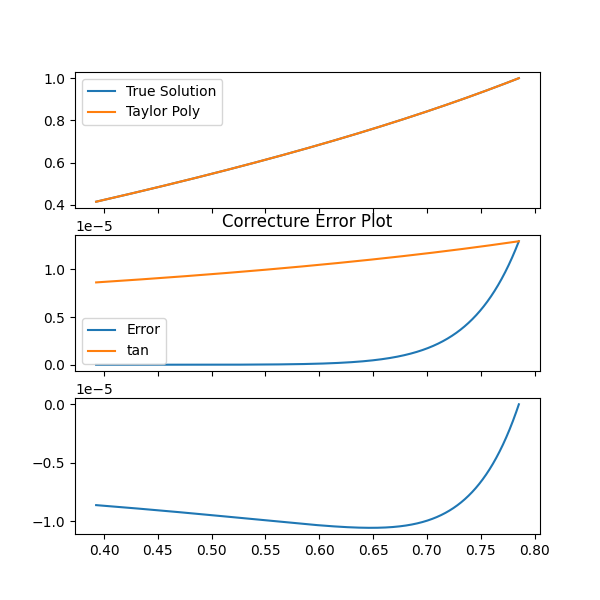
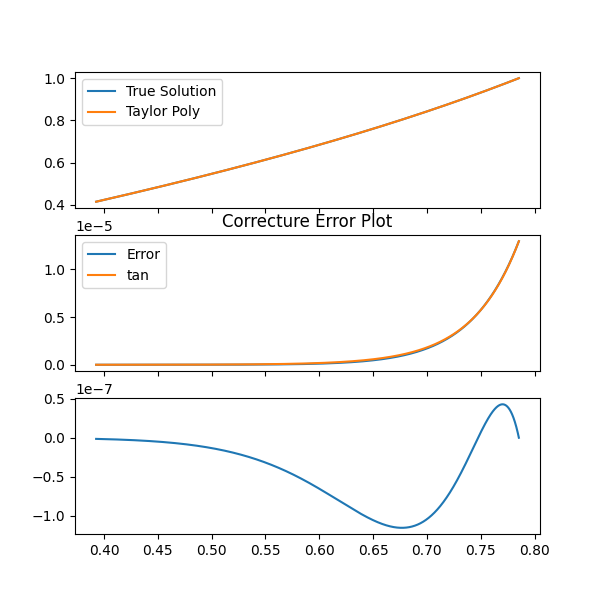
other error plots

diff --git a/plot_scripts/simple_tan_ranges/cubic_bezier_stuff.py b/plot_scripts/simple_tan_ranges/cubic_bezier_stuff.py
@@ -1,0 +1,206 @@
+import numpy as np
+import sympy as sp
+import matplotlib.pyplot as plt
+from scipy.optimize import brentq
+
+
+
+def taylor(degree):
+    """
+    Returns a function that computes the Taylor polynomial of tan(x)
+    of the given degree around point a (default 0).
+    """
+
+    x = sp.symbols('x')
+    f = sp.tan(x)
+    
+    # Taylor expansion around a
+    taylor_series = sp.series(f, x, 0, degree + 1)
+    taylor_poly = taylor_series.removeO()
+    
+    # Convert to a numerical function
+    f_taylor = sp.lambdify(x, taylor_poly, 'numpy')
+    
+    return f_taylor
+
+
+comparison_function = "tan"
+
+lower = np.pi/8
+upper = np.pi/4
+# upper = 1.5
+
+x_vals = np.linspace(lower, upper, 1000000)
+y_true = np.tan(x_vals)
+
+func = taylor(15)
+y_own = func(x_vals)
+
+y = np.linspace(lower, upper, 100000)
+dx = []
+for y0 in y:
+    # Solve true(x) = y0
+    f1 = lambda x: func(x) - y0
+    x_true = brentq(f1, 0, 10000)
+
+    # Solve approx(x) = y0
+    f2 = lambda x: np.tan(x) - y0
+    x_approx = brentq(f2, 0, upper)
+
+    dx.append(x_true - x_approx)
+
+fig, (ax1, ax2, ax3) = plt.subplots(3, 1, sharex=True, figsize=(6, 6), gridspec_kw={'height_ratios': [1, 1, 1]})
+
+ax1.plot(x_vals, y_true, label="True Solution")
+
+ax1.plot(x_vals, np.array(y_own), label="Taylor Poly")
+ax1.legend()
+
+error = y_true - np.array(y_own)
+
+one_over_x = 1/(np.pi/2-x_vals)
+adjusted_correcture = error[-1]/one_over_x[-1]*one_over_x
+
+ax2.plot(x_vals, error, label="Error")
+ax2.plot(x_vals, adjusted_correcture, label=comparison_function)
+ax2.set_title("Error Plot")
+ax2.legend()
+
+ax3.plot(x_vals, error - adjusted_correcture, label="Left Error - Correcture")
+ax2.set_title("Correcture Error Plot")
+
+plt.savefig(f"./plots/error_fkt_{comparison_function}.png")
+
+plt.show()
+
+
+dx = np.array(dx)
+
+
+# -------------------------
+# Bézier helpers
+# -------------------------
+def bezier_curve(P0, P1, P2, P3, n=400):
+    t = np.linspace(0, 1, n)
+    B0 = (1 - t) ** 3
+    B1 = 3 * (1 - t) ** 2 * t
+    B2 = 3 * (1 - t) * t ** 2
+    B3 = t ** 3
+    pts = (B0[:, None] * P0 +
+           B1[:, None] * P1 +
+           B2[:, None] * P2 +
+           B3[:, None] * P3)
+    return pts[:, 0], pts[:, 1]
+
+# -------------------------
+# Setup plot
+# -------------------------
+fig, ax = plt.subplots()
+ax.plot(y, dx, label="x diff for same y values")
+
+ax.set_xlabel("y")
+ax.set_ylabel("Δx")
+ax.grid(True)
+
+# Endpoints fixed to start/end of curve
+P0 = np.array([y[0],  dx[0]])
+P3 = np.array([y[-1], dx[-1]])
+
+# Initial guesses for control points (on chord)
+P1 = P0 + (P3 - P0) / 3
+P2 = P0 + 2 * (P3 - P0) / 3
+
+# Initial Bézier
+bx, by = bezier_curve(P0, P1, P2, P3)
+bez_line, = ax.plot(bx, by, lw=2, label="cubic Bézier")
+
+# Control polygon (optional visual)
+ctrl_line, = ax.plot(
+    [P0[0], P1[0], P2[0], P3[0]],
+    [P0[1], P1[1], P2[1], P3[1]],
+    "--", lw=1, color="gray"
+)
+
+# Draggable control points (green)
+P1_artist, = ax.plot([P1[0]], [P1[1]], "o", ms=10, color="green")
+P2_artist, = ax.plot([P2[0]], [P2[1]], "o", ms=10, color="green")
+
+ax.legend()
+
+# -------------------------
+# Drag logic
+# -------------------------
+# We’ll store references in a dict so we can modify inside callbacks
+state = {
+    "dragging": None,  # None, "P1", or "P2"
+    "P1": P1,
+    "P2": P2,
+}
+
+def pick_control_point(event):
+    """Return 'P1', 'P2', or None depending on click proximity."""
+    if event.xdata is None or event.ydata is None:
+        return None
+
+    # Simple distance in data coords; adjust threshold as you like
+    x, y_ = event.xdata, event.ydata
+    d1 = np.hypot(x - state["P1"][0], y_ - state["P1"][1])
+    d2 = np.hypot(x - state["P2"][0], y_ - state["P2"][1])
+    thresh = 0.3  # data units
+
+    if d1 < d2 and d1 < thresh:
+        return "P1"
+    elif d2 <= d1 and d2 < thresh:
+        return "P2"
+    else:
+        return None
+
+def on_press(event):
+    if event.inaxes != ax:
+        return
+    cp = pick_control_point(event)
+    state["dragging"] = cp
+
+def on_release(event):
+    if state["dragging"] is not None:
+        # Print the coordinates of both control points
+        P1 = state["P1"]
+        P2 = state["P2"]
+        print(f"P1 = ({P1[0]:.6f}, {P1[1]:.6f}),   P2 = ({P2[0]:.6f}, {P2[1]:.6f})")
+
+    state["dragging"] = None
+
+def on_motion(event):
+    if state["dragging"] is None:
+        return
+    if event.inaxes != ax or event.xdata is None or event.ydata is None:
+        return
+
+    # Update the corresponding control point
+    name = state["dragging"]
+    state[name][0] = event.xdata
+    state[name][1] = event.ydata
+
+    # Recompute Bézier with new control points
+    P1 = state["P1"]
+    P2 = state["P2"]
+    bx, by = bezier_curve(P0, P1, P2, P3)
+    bez_line.set_data(bx, by)
+
+    # Update control polygon & point artists
+    ctrl_line.set_data(
+        [P0[0], P1[0], P2[0], P3[0]],
+        [P0[1], P1[1], P2[1], P3[1]]
+    )
+    P1_artist.set_data([P1[0]], [P1[1]])
+    P2_artist.set_data([P2[0]], [P2[1]])
+
+    fig.canvas.draw_idle()
+
+# P1 = (0.649244, -0.000000),   P2 = (0.712166, -0.000000)
+# Connect callbacks
+fig.canvas.mpl_connect("button_press_event", on_press)
+fig.canvas.mpl_connect("button_release_event", on_release)
+fig.canvas.mpl_connect("motion_notify_event", on_motion)
+
+plt.show()

diff --git a/plot_scripts/simple_tan_ranges/one_over_tan.py b/plot_scripts/simple_tan_ranges/one_over_tan.py
@@ -58,7 +58,7 @@ ax1.legend()
 
 error = y_true - np.array(y_own)
 
-one_over_x = 1/(np.pi/2-x_vals)
+one_over_x = np.exp(23*(x_vals - np.pi/2))
 adjusted_correcture = error[-1]/one_over_x[-1]*one_over_x
 
 ax2.plot(x_vals, error, label="Error")
@@ -70,140 +70,5 @@ ax3.plot(x_vals, error - adjusted_correcture, label="Left Error - Correcture")
 ax2.set_title("Correcture Error Plot")
 
 plt.savefig(f"./plots/error_fkt_{comparison_function}.png")
-
-plt.show()
-
-from matplotlib.widgets import Slider
-
-plt.plot(y, dx, label="x diff for same y values")
-
-dx = np.array(dx)
-
-
-# -------------------------
-# Bézier helpers
-# -------------------------
-def bezier_curve(P0, P1, P2, P3, n=400):
-    t = np.linspace(0, 1, n)
-    B0 = (1 - t) ** 3
-    B1 = 3 * (1 - t) ** 2 * t
-    B2 = 3 * (1 - t) * t ** 2
-    B3 = t ** 3
-    pts = (B0[:, None] * P0 +
-           B1[:, None] * P1 +
-           B2[:, None] * P2 +
-           B3[:, None] * P3)
-    return pts[:, 0], pts[:, 1]
-
-# -------------------------
-# Setup plot
-# -------------------------
-fig, ax = plt.subplots()
-ax.plot(y, dx, label="x diff for same y values")
-
-ax.set_xlabel("y")
-ax.set_ylabel("Δx")
-ax.grid(True)
-
-# Endpoints fixed to start/end of curve
-P0 = np.array([y[0],  dx[0]])
-P3 = np.array([y[-1], dx[-1]])
-
-# Initial guesses for control points (on chord)
-P1 = P0 + (P3 - P0) / 3
-P2 = P0 + 2 * (P3 - P0) / 3
-
-# Initial Bézier
-bx, by = bezier_curve(P0, P1, P2, P3)
-bez_line, = ax.plot(bx, by, lw=2, label="cubic Bézier")
-
-# Control polygon (optional visual)
-ctrl_line, = ax.plot(
-    [P0[0], P1[0], P2[0], P3[0]],
-    [P0[1], P1[1], P2[1], P3[1]],
-    "--", lw=1, color="gray"
-)
-
-# Draggable control points (green)
-P1_artist, = ax.plot([P1[0]], [P1[1]], "o", ms=10, color="green")
-P2_artist, = ax.plot([P2[0]], [P2[1]], "o", ms=10, color="green")
-
-ax.legend()
-
-# -------------------------
-# Drag logic
-# -------------------------
-# We’ll store references in a dict so we can modify inside callbacks
-state = {
-    "dragging": None,  # None, "P1", or "P2"
-    "P1": P1,
-    "P2": P2,
-}
-
-def pick_control_point(event):
-    """Return 'P1', 'P2', or None depending on click proximity."""
-    if event.xdata is None or event.ydata is None:
-        return None
-
-    # Simple distance in data coords; adjust threshold as you like
-    x, y_ = event.xdata, event.ydata
-    d1 = np.hypot(x - state["P1"][0], y_ - state["P1"][1])
-    d2 = np.hypot(x - state["P2"][0], y_ - state["P2"][1])
-    thresh = 0.3  # data units
-
-    if d1 < d2 and d1 < thresh:
-        return "P1"
-    elif d2 <= d1 and d2 < thresh:
-        return "P2"
-    else:
-        return None
-
-def on_press(event):
-    if event.inaxes != ax:
-        return
-    cp = pick_control_point(event)
-    state["dragging"] = cp
-
-def on_release(event):
-    if state["dragging"] is not None:
-        # Print the coordinates of both control points
-        P1 = state["P1"]
-        P2 = state["P2"]
-        print(f"P1 = ({P1[0]:.6f}, {P1[1]:.6f}),   P2 = ({P2[0]:.6f}, {P2[1]:.6f})")
-
-    state["dragging"] = None
-
-def on_motion(event):
-    if state["dragging"] is None:
-        return
-    if event.inaxes != ax or event.xdata is None or event.ydata is None:
-        return
-
-    # Update the corresponding control point
-    name = state["dragging"]
-    state[name][0] = event.xdata
-    state[name][1] = event.ydata
-
-    # Recompute Bézier with new control points
-    P1 = state["P1"]
-    P2 = state["P2"]
-    bx, by = bezier_curve(P0, P1, P2, P3)
-    bez_line.set_data(bx, by)
-
-    # Update control polygon & point artists
-    ctrl_line.set_data(
-        [P0[0], P1[0], P2[0], P3[0]],
-        [P0[1], P1[1], P2[1], P3[1]]
-    )
-    P1_artist.set_data([P1[0]], [P1[1]])
-    P2_artist.set_data([P2[0]], [P2[1]])
-
-    fig.canvas.draw_idle()
-
-# P1 = (0.649244, -0.000000),   P2 = (0.712166, -0.000000)
-# Connect callbacks
-fig.canvas.mpl_connect("button_press_event", on_press)
-fig.canvas.mpl_connect("button_release_event", on_release)
-fig.canvas.mpl_connect("motion_notify_event", on_motion)
 
 plt.show()
